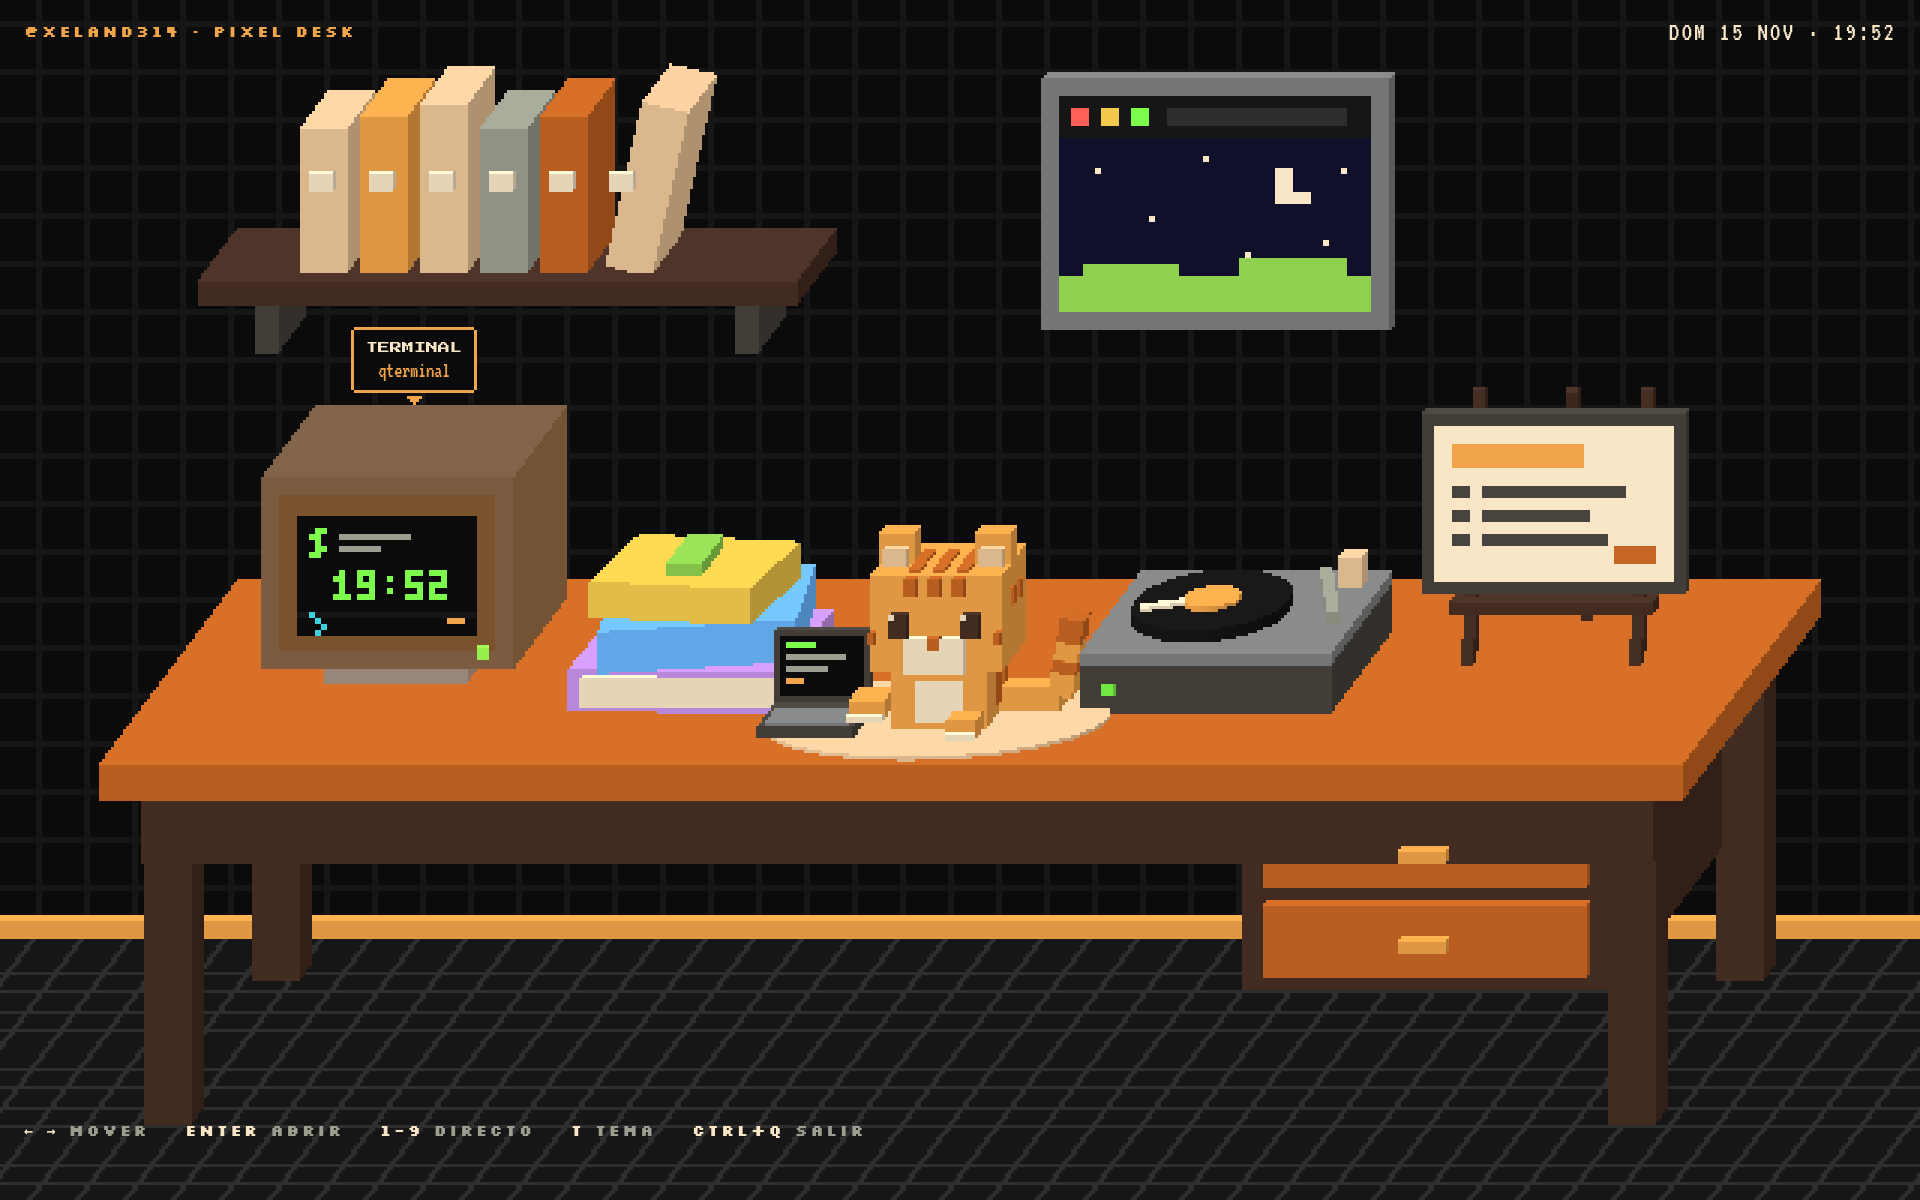
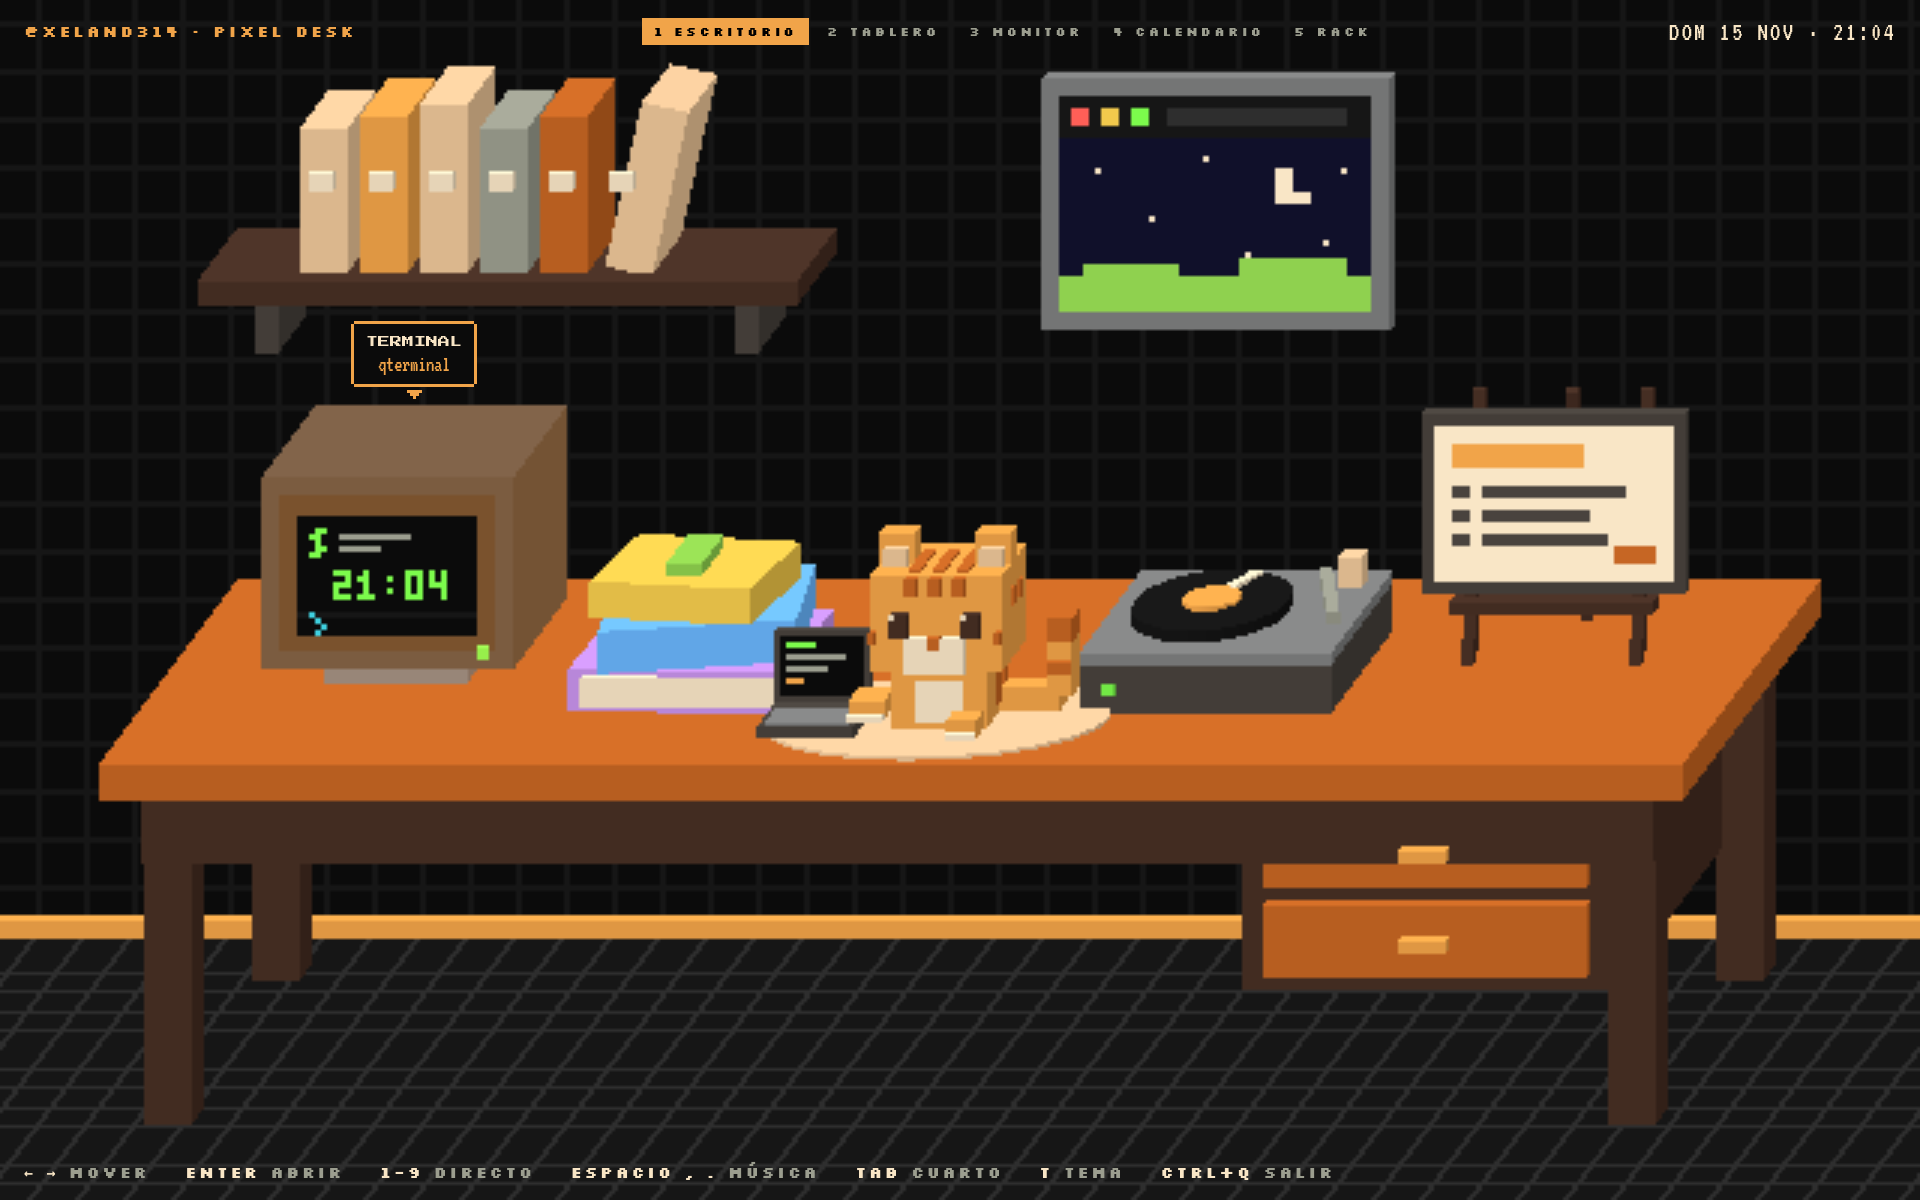
README: los cinco cuartos, la bóveda, la bitácora y dónde se guardan los datos
Capturas nuevas de cada cuarto y panel (oscuro y claro) con datos de
demostración genéricos.

diff --git a/README.md b/README.md
@@ -3,7 +3,9 @@
 # 🐈 pixel-desk
 
 **Un escritorio pixel-art 2.5D para Linux (X11).**<br>
-Tu fondo de escritorio es una habitación: cada objeto de la mesa abre una app.
+Tu fondo de escritorio es una casa de cinco cuartos: un escritorio donde cada
+objeto abre una app o una herramienta, un tablero de corcho, un monitor del
+sistema, un calendario y un rack de servidores.
 
 ![X11](https://img.shields.io/badge/X11-LXQt%20%2B%20xfwm4-f1a449?style=flat-square&labelColor=0b0b0b)
 ![Go](https://img.shields.io/badge/Go-WebKitGTK-f1a449?style=flat-square&labelColor=0b0b0b&logo=go&logoColor=f9e6c6)
@@ -13,6 +15,8 @@ Tu fondo de escritorio es una habitación: cada objeto de la mesa abre una app.
 <img src="docs/img/escena-oscura.png" alt="La escena de pixel-desk en modo oscuro: una mesa con un monitor CRT, libros, un gato naranja con un portátil, un tocadiscos y un caballete" width="100%">
 
 </div>
+
+<img src="docs/img/cuartos-tira.png" alt="Los cinco cuartos en miniatura: escritorio, tablero, monitor, calendario y rack" width="100%">
 
 ---
 
@@ -41,7 +45,7 @@ portátil, mueve la cola y parpadea, todo a 8 pasos por segundo.
 </table>
 
 ### Claro y oscuro
-`T` alterna en vivo. El modo claro usa la paleta de los carruseles de
+`T` alterna en vivo, en cualquier cuarto. El modo claro usa la paleta de los carruseles de
 cover-creator-cli: blanco, tinta azul noche y naranja `#f97316`.
 
 <img src="docs/img/claro-oscuro.png" alt="La misma escena en modo oscuro y en modo claro, lado a lado" width="100%">
@@ -61,6 +65,55 @@ color que la escena.
 
 ---
 
+## 🏠 Los cuartos
+
+`Tab` / `Shift+Tab` o las pestañas de arriba cambian de cuarto. Cada uno solo
+trabaja (consulta el sistema, la red o el disco) mientras lo estás mirando.
+
+### 2 · Tablero de corcho
+Kanban de tres columnas (por hacer, en progreso, hecho) y una pizarra de
+**información fija**. Notas de papel con chincheta: arrastrar y soltar, doble
+clic para editar, o todo con teclado (`N` nueva, `Enter` editar, `Shift+← →`
+mover, `C` color, `Supr` dos veces para borrar).
+
+<img src="docs/img/cuarto-tablero.png" alt="Tablero de corcho con notas en columnas Por hacer, En progreso, Hecho e Info fija" width="100%">
+
+### 3 · Monitor del sistema
+Pared de pantallas estilo terminal: CPU por núcleo, memoria y swap, procesos
+tipo htop (`S` ordena por CPU o memoria), red, discos, sistema (temperatura,
+batería, carga) y paneles que consultan una **API**. Se configura en
+[`config/monitor.json`](config/monitor.json). Lee `/proc` y `/sys` directamente,
+sin ejecutar comandos.
+
+<img src="docs/img/cuarto-monitor.png" alt="Monitor con pantallas verdes de CPU, memoria, procesos, red, disco, sistema y API" width="100%">
+
+### 4 · Calendario
+Mes completo (semana desde el lunes, número de semana ISO), agenda del día,
+próximos 7 días, fase lunar y un gato que parpadea. Eventos con hora o de día
+completo, repetición semanal, mensual o anual, y **suscripciones ICS** de solo
+lectura (por ejemplo, el enlace privado de Google Calendar) en
+`~/.config/pixel-desk/calendar.json`.
+
+<img src="docs/img/cuarto-calendario.png" alt="Calendario de noviembre con eventos de colores y panel de agenda" width="100%">
+
+### 5 · Rack de servidores
+Cada nodo es una unidad de rack con LEDs: TCP, HTTP, días restantes del
+certificado TLS, ping, DNS y contenedores Docker. `Enter` copia el `ssh` del
+nodo, `R` comprueba ahora, `F` deja solo los que fallan. La lista va en
+`~/.config/pixel-desk/rack.json` (se recarga sola); el ejemplo incluido solo
+comprueba tu propia máquina y example.com.
+
+<img src="docs/img/cuarto-rack.png" alt="Rack con nodos y LEDs verdes, naranjas y rojos, y panel de detalle" width="100%">
+
+<details>
+<summary><b>Ver los cuartos en modo claro</b></summary>
+
+<img src="docs/img/cuartos-claro.png" alt="Los cuartos en modo claro" width="100%">
+
+</details>
+
+---
+
 ## 🎛 Los objetos
 
 | | Objeto | Abre |
@@ -69,16 +122,33 @@ color que la escena.
 | 🖥 | Monitor CRT con reloj | terminal (`qterminal`) |
 | 📚 | Pila de libros (colores del resaltado de sintaxis) | VS Code |
 | 🐈 | El gato con su portátil | lanzador (`rofi -show drun`) |
-| 💿 | Tocadiscos | Spotify, en su escritorio virtual (el 8) |
+| 💿 | Tocadiscos | Spotify en su escritorio virtual (el 8). Seleccionado: `Espacio` pausa, `,` `.` cambian de pista y la etiqueta muestra qué suena |
 | 🪟 | Ventana en la pared | navegador (Brave) |
-| 🖼 | Caballete | `slides.c`, el presentador en C |
-| 🧰 | Cajón de arriba | ajustes de LXQt |
+| 🖼 | Caballete | **bitácora rápida** (panel) |
+| 🧰 | Cajón de arriba | **bóveda de comandos** (panel) |
 | 🔑 | Cajón de abajo | apagar / cerrar sesión |
 
-Todo se configura en [`config/apps.json`](config/apps.json). La página solo
-envía un `id`; el binario ejecuta únicamente lo que está en esa lista.
+Todo se configura en [`config/apps.json`](config/apps.json): un objeto lanza un
+programa (`cmd`) o abre un panel (`panel`). La página solo envía un `id`; el
+binario ejecuta únicamente lo que está en esa lista.
 
-**Controles:** ratón · `← →` mover · `Enter` abrir · `1-9` directo · `T` tema · `Ctrl+Q` salir
+### Bóveda de comandos (cajón)
+Escribe para filtrar tus comandos frecuentes; `Enter` copia el elegido al
+portapapeles y cierra. **Nunca ejecuta nada.** Admite huecos `{{host}}` que se
+rellenan antes de copiar. Los comandos viven en
+`~/.local/share/pixel-desk/snippets.json` (se crea con ejemplos genéricos).
+
+<img src="docs/img/panel-comandos.png" alt="Panel de la bóveda de comandos con una búsqueda y la lista filtrada" width="100%">
+
+### Bitácora rápida (caballete)
+Para las interrupciones del día: `Enter` anota con la hora puesta, `#etiqueta`
+o `Alt+1-4` clasifican (incidencia, cambio, consulta, nota), `↑` corrige la
+última y `Ctrl+E` exporta la semana a Markdown (y lo copia). El archivo
+`bitacora.jsonl` es de solo añadir: nunca se reescribe.
+
+<img src="docs/img/panel-bitacora.png" alt="Panel de bitácora con entradas del día etiquetadas" width="100%">
+
+**Controles:** ratón · `← →` mover · `Enter` abrir · `1-9` directo · `Tab` cuarto · `T` tema · `Ctrl+Q` salir
 
 ---
 
@@ -98,6 +168,7 @@ npm run stop       # cerrarlo
 |---|---|
 | `-desktop` | ventana `_NET_WM_WINDOW_TYPE_DESKTOP`: detrás de todo, a pantalla completa |
 | `-theme light` | arranca en modo claro (por defecto `dark`) |
+| `-room N` | arranca en otro cuarto: 1 escritorio, 2 tablero, 3 monitor, 4 calendario, 5 rack |
 | `-px N` | tamaño del píxel: `3` por defecto (640×400 en 1920×1200), `6` grueso, `2` fino |
 | `-software` | sin aceleración por GPU |
 | `-shot f.png` | guarda una captura y sale |
@@ -193,14 +264,40 @@ Convierte las apps instaladas, los tipos de archivo y los dispositivos
   librería de runtime, así que no hace falta el paquete `-dev`.
 - **Seguro por defecto:** el servidor escucha solo en `127.0.0.1`, la API exige
   un token nuevo en cada arranque, y la página no puede pedir comandos, solo ids.
+  Las URLs de APIs, calendarios y servidores viven en el backend y nunca llegan
+  a la página; todo texto ajeno se pinta como texto, nunca como HTML.
+- **Cuartos y paneles como módulos:** cada cuarto es un archivo de
+  `web/rooms/` y cada herramienta de un objeto, uno de `web/panels/`, con un
+  contrato de pocas funciones (documentado en `web/rooms.js` y `web/panels.js`).
+
+### Dónde se guardan las cosas
+
+| Archivo | Qué es |
+|---|---|
+| `~/.local/share/pixel-desk/board.json` | notas del tablero |
+| `~/.local/share/pixel-desk/calendar.json` | eventos del calendario |
+| `~/.local/share/pixel-desk/snippets.json` | comandos de la bóveda (se edita a mano) |
+| `~/.local/share/pixel-desk/bitacora.jsonl` | bitácora (solo añadir) y `reportes/` con los Markdown |
+| `~/.config/pixel-desk/rack.json` | servidores del rack (lo escribes tú) |
+| `~/.config/pixel-desk/calendar.json` | suscripciones ICS |
+| `config/monitor.json` | pantallas del monitor |
+
+Se escriben de forma atómica, y si un archivo aparece corrupto se aparta como
+`*.corrupto-<fecha>` en vez de perderse.
 
 <details>
 <summary><b>Estructura del proyecto</b></summary>
 
 ```
-main.go             servidor local + ventana GTK/WebKit + lanzador
-config/apps.json    apps lanzables
+main.go             servidor local + ventana GTK/WebKit + lanzador + portapapeles
+board.go            API del tablero          calendar.go   API del calendario + ICS
+sysinfo.go          monitor (/proc, /sys)    rack.go       comprobaciones del rack
+snippets.go         bóveda de comandos       bitacora.go   bitácora y exportación
+mpris.go            tocadiscos ↔ reproductor por D-Bus
+config/             apps.json, monitor.json, rack.json y calendar.json de ejemplo
 web/desk.js         la escena (habitación, objetos, gato, selección, entrada)
+web/rooms.js        gestor de cuartos        web/rooms/    tablero, monitor, calendario, rack
+web/panels.js       paneles modales          web/panels/   bóveda de comandos y bitácora
 web/desk.css        HUD y etiquetas
 web/assets/styles/  tokens.css (copia de social-media/shared) y light.css
 web/assets/fonts/   Press Start 2P, Silkscreen, VT323 (OFL)
